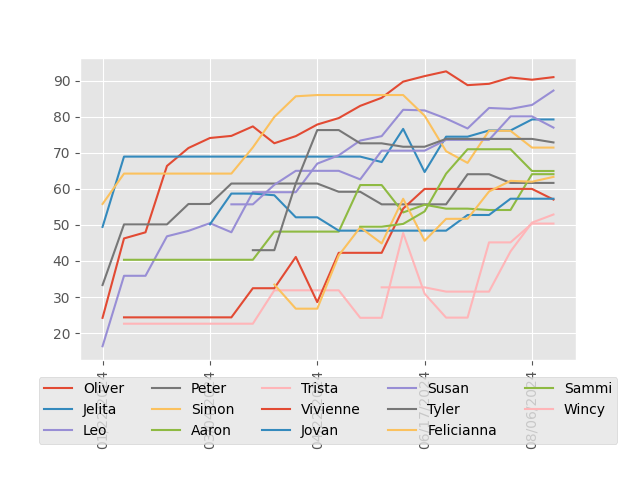
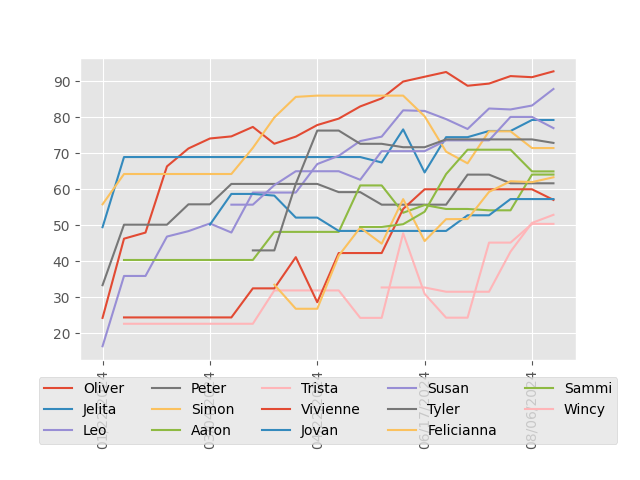
update rankings

diff --git a/parse_results.py b/parse_results.py
@@ -133,7 +133,7 @@ def main():
     chart_df = pd.DataFrame()
     for _, row in all_df.iterrows():
         players = list(np.array(row['teams']).flat)
-        ratings = [(elo.mu - 2 * max(3.0, elo.sigma)) * 4 for elo in \
+        ratings = [(elo.mu - 2 * max(2.0, elo.sigma)) * 4 for elo in \
                 itertools.chain.from_iterable(row['elos'])]
         #ratings = [elo.mu * 4 for elo in np.array(row['elos']).flat]
         ## DEBUG
